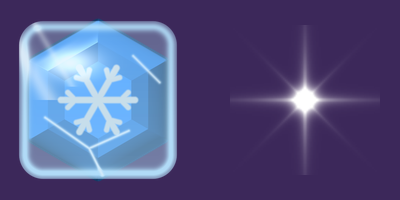
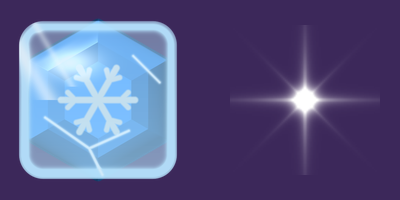
얼음 칸 더 잘 보이게, 글꼴에 없는 · 기호 바꾸기
Claude-Session: https://claude.ai/code/session_01K7tqyceH8S4rsrieyWM55C

Changed region(s): [[0.03, 0.09, 0.45, 0.9]]

diff --git a/Assets/Scripts/AC/AcRoom.cs b/Assets/Scripts/AC/AcRoom.cs
@@ -645,7 +645,7 @@ public partial class AcRoom : MonoBehaviour
                 if (npcs.Count > 0) foreach (var c in npcs) c.gameObject.SetActive(false);
             }
             if (r.look != n.look) { r.look = n.look; r.c.Rebuild(AcLook.Decode(n.look)); }
-            if (!r.nameChecked && !string.IsNullOrEmpty(n.name)) { r.nameChecked = true; if (NameKey(n.name) == myKey) Toast("나와 같은 이름(" + n.name + ")으로 들어온 사람이 있어요. 편지·점수가 섞일 수 있어요"); }
+            if (!r.nameChecked && !string.IsNullOrEmpty(n.name)) { r.nameChecked = true; if (NameKey(n.name) == myKey) Toast("나와 같은 이름(" + n.name + ")으로 들어온 사람이 있어요. 편지/점수가 섞일 수 있어요"); }
             r.net = n; r.target = new Vector3(n.x, 0, n.z);
             if (r.c.skating != n.skate) r.c.SetSkates(n.skate);
             if (n.emoteT > r.lastEmoteT && AcSync.UnixMs - n.emoteT < 5000)
@@ -1226,7 +1226,7 @@ public partial class AcRoom : MonoBehaviour
             if (lobbyMsg != "") GUI.Label(new Rect(q.x + 18, q.y + 92, q.width - 36, 22), "<color=#b03030>" + lobbyMsg + "</color>", sSmall);
             if (GUI.Button(new Rect(q.x + 18, q.y + 112, bw, 42), "<b>입장하기</b>", sBtn)) Enter(false);
             if (GUI.Button(new Rect(q.x + 18 + bw + 10, q.y + 112, bw, 42), "혼자 둘러보기", sBtn)) Enter(true);
-            if (GUI.Button(new Rect(q.x + 18, q.y + 160, q.width - 36, 28), "꾸미기 · 이름 바꾸기", sBtn)) lobbyEdit = true;
+            if (GUI.Button(new Rect(q.x + 18, q.y + 160, q.width - 36, 28), "꾸미기, 이름 바꾸기", sBtn)) lobbyEdit = true;
             return;
         }
         if (Event.current.type == EventType.MouseDown) GUIUtility.keyboardControl = 0;   // 글 칸 밖을 누르면 화살표로 꾸미기
@@ -1265,7 +1265,7 @@ public partial class AcRoom : MonoBehaviour
         if (GUI.Button(new Rect(SW - 20 - 90, y + 6, 82, 32), "<b>나오기</b>", sBtn)) { decorating = false; return; }
         if (GUI.Button(new Rect(SW - 20 - 90 - 100, y + 6, 92, 32), "트리 전경", sBtn)) { treeOverview = true; return; }
         // 도움말은 맨 아래 줄
-        GUI.Label(new Rect(26, y + h - 26, SW - 52, 22), (narrow ? $"장식 {ornObjs.Count}개 · " : "") + (IsMobile ? "누른 채 자리 잡고 떼면 달기 · 길게 눌러 떼기 · 두 손가락 확대" : "클릭으로 달기 · 오른쪽 클릭 떼기 · 해제 후 끌어서 둘러보기 · 휠 확대"), sSmall);
+        GUI.Label(new Rect(26, y + h - 26, SW - 52, 22), (narrow ? $"장식 {ornObjs.Count}개, " : "") + (IsMobile ? "누른 채 자리 잡고 떼면 달기, 길게 눌러 떼기, 두 손가락 확대" : "클릭으로 달기, 오른쪽 클릭 떼기, 해제 후 끌어서 둘러보기, 휠 확대"), sSmall);
         // 화면 오른쪽, 패널 위: 카메라 움직이기 버튼 (누르고 있는 동안) — 2x2로 패널과 떨어뜨려 둠
         decoButtons = 0;
         CamPad(SW - 20 - 2 * 66 - 6, y - 2 * 44 - 18, true);
@@ -1274,7 +1274,7 @@ public partial class AcRoom : MonoBehaviour
         int ci = IconStrip(ornStrip, new Rect(23, y + 37, perRowW + 6, 68), ornTypes.Count, 62, i => icons.TryGetValue(ornTypes[i], out var rt) ? rt : null, ornSel, ornPicked);
         if (ci >= 0) { if (ci == ornSel && ornPicked) ornPicked = false; else { SetSel(ci); ornPicked = true; } }
         var it = AcCatalog.Get(ornTypes[ornSel]);
-        if (!ornPicked) GUI.Label(new Rect(26, y + 104, Mathf.Min(460, SW - 52), 22), "지금은 둘러보기: 끌어서 돌려 보기 · 장식을 고르면 달 수 있어요", sSmall);
+        if (!ornPicked) GUI.Label(new Rect(26, y + 104, Mathf.Min(460, SW - 52), 22), "지금은 둘러보기: 끌어서 돌려 보기, 장식을 고르면 달 수 있어요", sSmall);
         else
         {
             GUI.Label(new Rect(26, y + 104, narrow ? SW - 150 : Mathf.Min(420, SW - 290 - 130), 22), IsGarland(ornTypes[ornSel]) ? GarlandName(ornTypes[ornSel]) + " - 누른 높이에 한 바퀴" : it != null ? it.desc : ornTypes[ornSel], sSmall);

diff --git a/Assets/Scripts/AC/AcPlay.cs b/Assets/Scripts/AC/AcPlay.cs
@@ -530,7 +530,7 @@ public partial class AcRoom
         {
             GUI.Label(new Rect(p.x + 20, p.y + 80, p.width - 40, 40), "퀴즈가 곧 시작해요!", big);
             GUI.Label(new Rect(p.x + 20, p.y + 130, p.width - 40, 80), $"<size=48><b>{Math.Ceiling(-el / 1000)}</b></size>", big);
-            GUI.Label(new Rect(p.x + 20, p.y + 220, p.width - 40, 24), "10문제 · 문제마다 10초", center);
+            GUI.Label(new Rect(p.x + 20, p.y + 220, p.width - 40, 24), "10문제, 문제마다 10초", center);
             return;
         }
         // 모이는 화면 (끝난 판이 있으면 결과도)
@@ -551,7 +551,7 @@ public partial class AcRoom
         y += 28;
         GUI.Label(new Rect(p.x + 16, y, p.width - 32, 44), string.Join(", ", names.Take(14).Select(n => Short(n, 6))) + (names.Count > 14 ? " …" : ""), center);
         y += 50;
-        GUI.Label(new Rect(p.x + 16, y, p.width - 32, 22), "10문제를 같이 풀어요 · 문제마다 10초", center);
+        GUI.Label(new Rect(p.x + 16, y, p.width - 32, 22), "10문제를 같이 풀어요, 문제마다 10초", center);
         y += 30;
         float bw = Mathf.Min(170, (p.width - 48) / 2);
         if (GUI.Button(new Rect(p.center.x - bw - 8, y, bw, 40), "모두에게 알리기", sBtn)) { AddAct("qa", ""); Toast("모두에게 퀴즈 소식을 보냈어요"); }
@@ -579,7 +579,7 @@ public partial class AcRoom
     {
         snowMode = !snowMode;
         if (snowMode && me.skating) { me.SetSkates(false); skateVel = Vector3.zero; }   // 스케이트와 눈싸움은 함께 못 해요
-        if (snowMode) Toast(IsMobile ? "눈싸움! 친구나 땅을 톡 누르면 던져요 (큰 눈·작은 눈 고르기)" : "눈싸움! 클릭한 곳으로 던져요 (F: 앞으로, 1·2: 큰 눈·작은 눈)");
+        if (snowMode) Toast(IsMobile ? "눈싸움! 친구나 땅을 톡 누르면 던져요 (큰 눈/작은 눈 고르기)" : "눈싸움! 클릭한 곳으로 던져요 (F: 앞으로, 1/2: 큰 눈/작은 눈)");
     }
 
     void ThrowSnowball(Vector3 target)
@@ -754,7 +754,7 @@ public partial class AcRoom
         var top3 = s == null ? new List<(string, int)>() : s.Values.OfType<Dictionary<string, object>>().Select(d => (AcJson.S(d, "name"), (int)AcJson.D(d, "hits"))).Where(x => x.Item2 > 0).OrderByDescending(x => x.Item2).Take(3).ToList();
         var r = new Rect(12, top, w, 36 + top3.Count * 20);
         GUI.Box(R(r), "", sBox);
-        GUI.Label(new Rect(r.x + 12, r.y + 6, w - 20, 24), $"<b>눈싸움</b>  맞힘 {sbHits} · 맞음 {sbTaken}", sSmall);
+        GUI.Label(new Rect(r.x + 12, r.y + 6, w - 20, 24), $"<b>눈싸움</b>  맞힘 {sbHits}, 맞음 {sbTaken}", sSmall);
         // 큰 눈 / 작은 눈 고르기
         var br = new Rect(r.x, r.yMax + 6, w, 40);
         GUI.Box(R(br), "", sBox);
@@ -882,6 +882,6 @@ public partial class AcRoom
         float w = 230, top = chatLog.Count > 0 ? 30 + 22 * chatLog.Count : SW < 1000 ? 112 : 60;
         var r = new Rect(12, top, w, 36);
         GUI.Box(R(r), "", sBox);
-        GUI.Label(new Rect(r.x + 12, r.y + 7, w - 20, 24), $"<b>베개 싸움</b>  퍽! {pwHits} · 맞음 {pwTaken}", sSmall);
+        GUI.Label(new Rect(r.x + 12, r.y + 7, w - 20, 24), $"<b>베개 싸움</b>  퍽! {pwHits}, 맞음 {pwTaken}", sSmall);
     }
 }

diff --git a/Assets/Scripts/AC/AcSnowman.cs b/Assets/Scripts/AC/AcSnowman.cs
@@ -456,7 +456,7 @@ public partial class AcRoom
         float h = narrow ? 300 : 220, y = SH - h - 8;
         var box = new Rect(10, y, SW - 20, h);
         GUI.Box(R(box), "", sBox);
-        string[] tabs = { "눈덩이", "장식 붙이기", "모자·목도리" };
+        string[] tabs = { "눈덩이", "장식 붙이기", "모자/목도리" };
         float tw = narrow ? (SW - 44 - 12) / 3f : 120;
         for (int i = 0; i < tabs.Length; i++)
         {
@@ -491,7 +491,7 @@ public partial class AcRoom
         }
         else if (snowTab == 1)
         {
-            GUI.Label(new Rect(lx, cy - 4, SW - 60, 22), IsMobile ? "<size=13>누른 채 자리 잡고 떼면 붙이기 · 길게 눌러 떼기 · 두 손가락 확대</size>" : "<size=13>클릭해 붙이기 · 오른쪽 클릭으로 떼기 · 끌어서 돌려 보기</size>", sSmall);
+            GUI.Label(new Rect(lx, cy - 4, SW - 60, 22), IsMobile ? "<size=13>누른 채 자리 잡고 떼면 붙이기, 길게 눌러 떼기, 두 손가락 확대</size>" : "<size=13>클릭해 붙이기, 오른쪽 클릭으로 떼기, 끌어서 돌려 보기</size>", sSmall);
             cy += 20;
             // 장식 모양 (그림): 옆으로 끌어 넘기기 · 누르면 고르기(다시 누르면 해제) · 끌어서 눈사람에 놓기
             float size = narrow ? 54 : 60;
@@ -501,7 +501,7 @@ public partial class AcRoom
             cy += size + 12;
             var it = AcCatalog.Get(CurDeco);
             if (snowPicked) { GUI.Label(new Rect(lx, cy + 3, 130, 22), it != null ? it.desc : CurDeco, sLabelSel); if (GUI.Button(R(new Rect(lx + 140, cy, 82, 28)), "선택 해제", sBtn)) snowPicked = false; }
-            else GUI.Label(new Rect(lx, cy + 3, SW - 60, 22), "<size=13>둘러보기: 끌어서 돌려 보기 · 장식을 고르면 붙일 수 있어요</size>", sSmall);
+            else GUI.Label(new Rect(lx, cy + 3, SW - 60, 22), "<size=13>둘러보기: 끌어서 돌려 보기, 장식을 고르면 붙일 수 있어요</size>", sSmall);
             cy += 34;
             float x2 = lx;
             if (DecoTintable(CurDeco))
@@ -631,7 +631,7 @@ public partial class AcRoom
         var r = new Rect(SW / 2 - w / 2, SH - h - 12, w, h);
         GUI.Box(R(r), "", sBox);
         GUI.Label(new Rect(r.x + 16, r.y + 10, w - 32, 26), (who != "" ? who + " 님의 눈사람" : "눈사람"), sLabel);
-        GUI.Label(new Rect(r.x + 16, r.y + 36, w - 32, 22), snowDelAsk ? "<size=13>정말 없앨까요? 모두의 마당에서 사라져요</size>" : (IsMobile ? "<size=13>끌어서 돌려 보기 · 두 손가락 확대</size>" : "<size=13>끌어서 돌려 보기 · 휠 확대</size>"), sSmall);
+        GUI.Label(new Rect(r.x + 16, r.y + 36, w - 32, 22), snowDelAsk ? "<size=13>정말 없앨까요? 모두의 마당에서 사라져요</size>" : (IsMobile ? "<size=13>끌어서 돌려 보기, 두 손가락 확대</size>" : "<size=13>끌어서 돌려 보기, 휠 확대</size>"), sSmall);
         float bw = 96, by = r.y + 58;
         if (!snowDelAsk)
         {

diff --git a/Assets/Scripts/AC/AcCookieUI.cs b/Assets/Scripts/AC/AcCookieUI.cs
@@ -258,7 +258,7 @@ public partial class AcRoom
         int best = MyBest();
         CgText(new Rect(0, by + 132, SW, 28), best > 0 ? $"{uiName.Trim()} 님의 최고 기록  {best:#,0}점" : "첫 기록을 세워 보세요!", 18, new Color(1f, 0.9f, 0.6f));
         if (portrait || SH > 520)
-            CgText(new Rect(0, by + 160, SW, 26), IsMobile ? "점프 버튼(두 번=2단 점프) · 슬라이드 버튼을 누르고 있기" : "스페이스: 점프(두 번=2단 점프) · 아래 화살표: 슬라이드", 15, new Color(0.95f, 0.9f, 0.85f), TextAnchor.MiddleCenter, 1.5f);
+            CgText(new Rect(0, by + 160, SW, 26), IsMobile ? "점프 버튼(두 번=2단 점프), 슬라이드 버튼을 누르고 있기" : "스페이스: 점프(두 번=2단 점프), 아래 화살표: 슬라이드", 15, new Color(0.95f, 0.9f, 0.85f), TextAnchor.MiddleCenter, 1.5f);
     }
 
     void CountGUI(Rect band)
@@ -577,7 +577,7 @@ public partial class AcRoom
             }
         }
         if (mine >= 10)
-            CgText(new Rect(list.x, list.yMax + 4, list.width, 24), $"내 순위 {mine + 1}등 · {boardList[mine].best:#,0}점", 16, new Color(1f, 0.9f, 0.6f));
+            CgText(new Rect(list.x, list.yMax + 4, list.width, 24), $"내 순위 {mine + 1}등, {boardList[mine].best:#,0}점", 16, new Color(1f, 0.9f, 0.6f));
         // 버튼
         float bw = 150, by = portrait ? SH - 62 : SH - 64;
         if (CgButton(new Rect(SW / 2 - bw - 6, by, bw, 50), "달리기 시작!", new Color(0.92f, 0.32f, 0.3f), 19)) StartRun();

diff --git a/Assets/Scripts/AC/AcLetters.cs b/Assets/Scripts/AC/AcLetters.cs
@@ -116,7 +116,7 @@ public partial class AcRoom
                 if (lettersPrimed && l.from != myKey)
                 {
                     if (l.to == myKey) { Toast(l.fromName + " 님이 비밀 편지를 보냈어요! 입구 우편함이나 거실 벽난로 편지함에서 읽어 보세요"); Log("[편지] " + l.fromName + " 님의 비밀 편지가 도착했어요"); }
-                    else { Toast(l.fromName + " 님이 모두가 보라고 편지를 썼어요 (입구 우편함·벽난로 편지함)"); Log("[편지] " + l.fromName + " 님의 공개 편지: " + l.title); }
+                    else { Toast(l.fromName + " 님이 모두가 보라고 편지를 썼어요 (입구 우편함/벽난로 편지함)"); Log("[편지] " + l.fromName + " 님의 공개 편지: " + l.title); }
                 }
             }
         letters.RemoveAll(l => !alive.Contains(l.id));

diff --git a/Assets/Scripts/AC/AcCandy.cs b/Assets/Scripts/AC/AcCandy.cs
@@ -845,6 +845,7 @@ public partial class AcRoom
                         if (pass == 0)
                         {
                             if (!t.dying) DT(new Rect(cx - w * 0.44f, (t.y + 0.5f) * cdCell + s * 0.36f - h * 0.08f, w * 0.88f, h * 0.22f), shadow, new Color(1, 1, 1, 0.55f));
+                            if (t.ice) DT(new Rect(t.x * cdCell + 2, t.y * cdCell + 2, cdCell - 4, cdCell - 4), CTx("cell"), new Color(0.65f, 0.88f, 1f, 0.9f));   // 얼음 칸 바탕
                             if (!t.dying && (t.sp == SpH || t.sp == SpV || t.sp == SpWrap || t.sp == SpBomb))
                             {
                                 // 특수 사탕은 뒤에서 은은하게 빛남 (방울은 무지개색)

diff --git a/Tools/candy/make_ice.py b/Tools/candy/make_ice.py
@@ -23,8 +23,8 @@ d = rbox(X, Y, 0.9, 0.9, 0.28)
 inside = np.clip(-d * M / 2 / 1.5, 0, 1)
 edge = np.exp(-((d + 0.07) / 0.05) ** 2)                         # 두꺼운 얼음 테두리
 base = np.stack([0.72 + 0 * X, 0.9 + 0 * X, 1.0 + 0 * X], -1)
-alpha = 0.30 + 0.18 * (1 - (Y + 1) / 2)                          # 아래쪽이 조금 더 진함
-alpha = alpha + edge * 0.55
+alpha = 0.42 + 0.2 * (1 - (Y + 1) / 2)                          # 아래쪽이 조금 더 진함
+alpha = alpha + edge * 0.7
 # 위쪽 반짝이 띠
 hl = np.exp(-((X + Y * 0.6 + 0.55) / 0.12) ** 2) * (Y > 0.0) * 0.6
 hl += np.exp(-((X + Y * 0.6 + 0.2) / 0.05) ** 2) * (Y > 0.15) * 0.45
